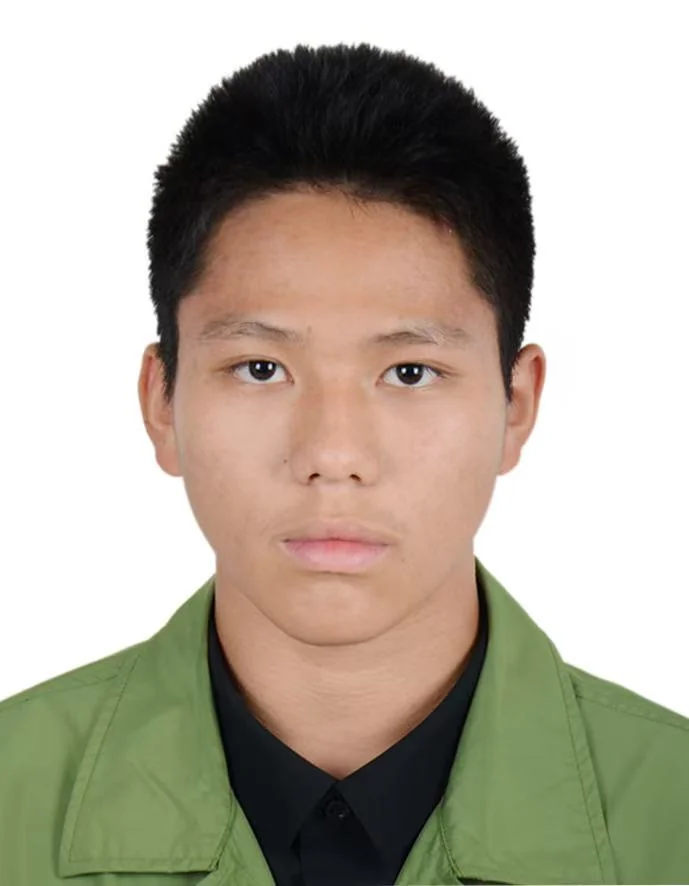
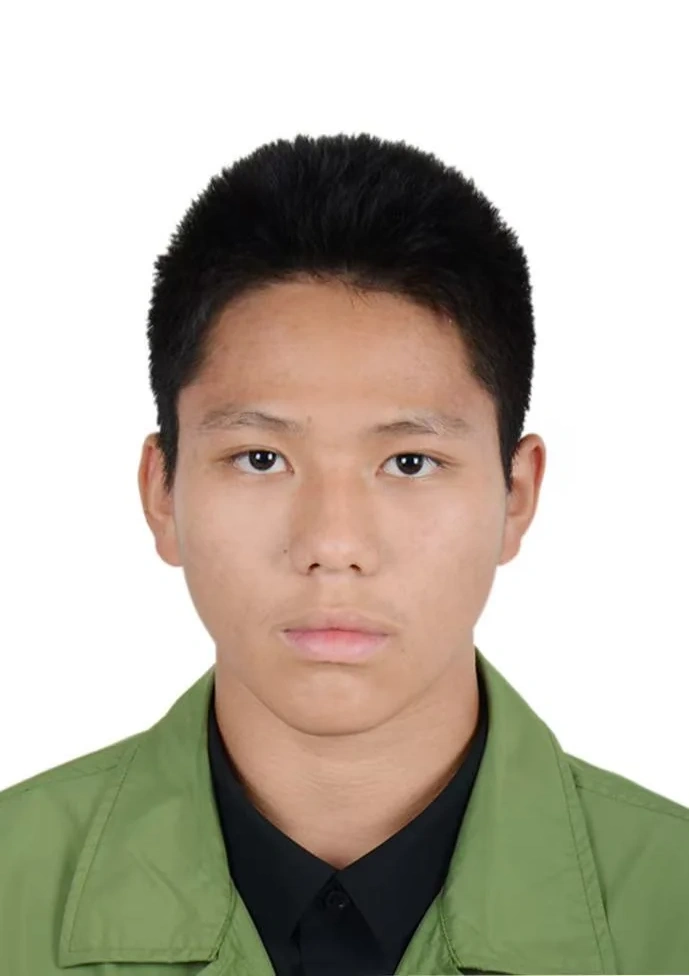
fix: adjust portrait framing with top headroom to prevent cutting hair

diff --git a/index.html b/index.html
@@ -195,10 +195,10 @@
 
             <!-- Dedicated Portrait Photo Frame (Natural 3:4 Portrait Ratio) -->
             <div class="relative w-full aspect-[3/4] max-h-[400px] sm:max-h-[440px] rounded-xl overflow-hidden bg-slate-100 dark:bg-slate-800/80 border border-slate-200 dark:border-slate-700 shadow-md group mb-4">
-              <img src="assets/images/avatar.webp" 
+              <img src="assets/images/avatar.webp?v=2" 
                    alt="Zhuoli Yang" 
                    id="avatar-img"
-                   class="w-full h-full object-cover object-center transition-transform duration-300 group-hover:scale-[1.02]">
+                   class="w-full h-full object-cover object-top transition-transform duration-300 group-hover:scale-[1.02] origin-top">
             </div>
 
             <!-- Profile Quick Facts -->

diff --git a/about.html b/about.html
@@ -156,7 +156,7 @@
           <div class="lg:col-span-5">
             <div class="glass-card rounded-2xl p-5 sm:p-6 shadow-md space-y-4">
               <div class="relative w-full aspect-[3/4] max-h-[380px] rounded-xl overflow-hidden bg-slate-100 dark:bg-slate-800 border border-slate-200 dark:border-slate-700">
-                <img src="assets/images/avatar.webp" alt="Zhuoli Yang Portrait" class="w-full h-full object-cover object-center">
+                <img src="assets/images/avatar.webp?v=2" alt="Zhuoli Yang Portrait" class="w-full h-full object-cover object-top">
               </div>
               <div class="grid grid-cols-2 gap-2 text-xs">
                 <div class="p-2.5 rounded-lg bg-slate-100/70 dark:bg-slate-800/50">
